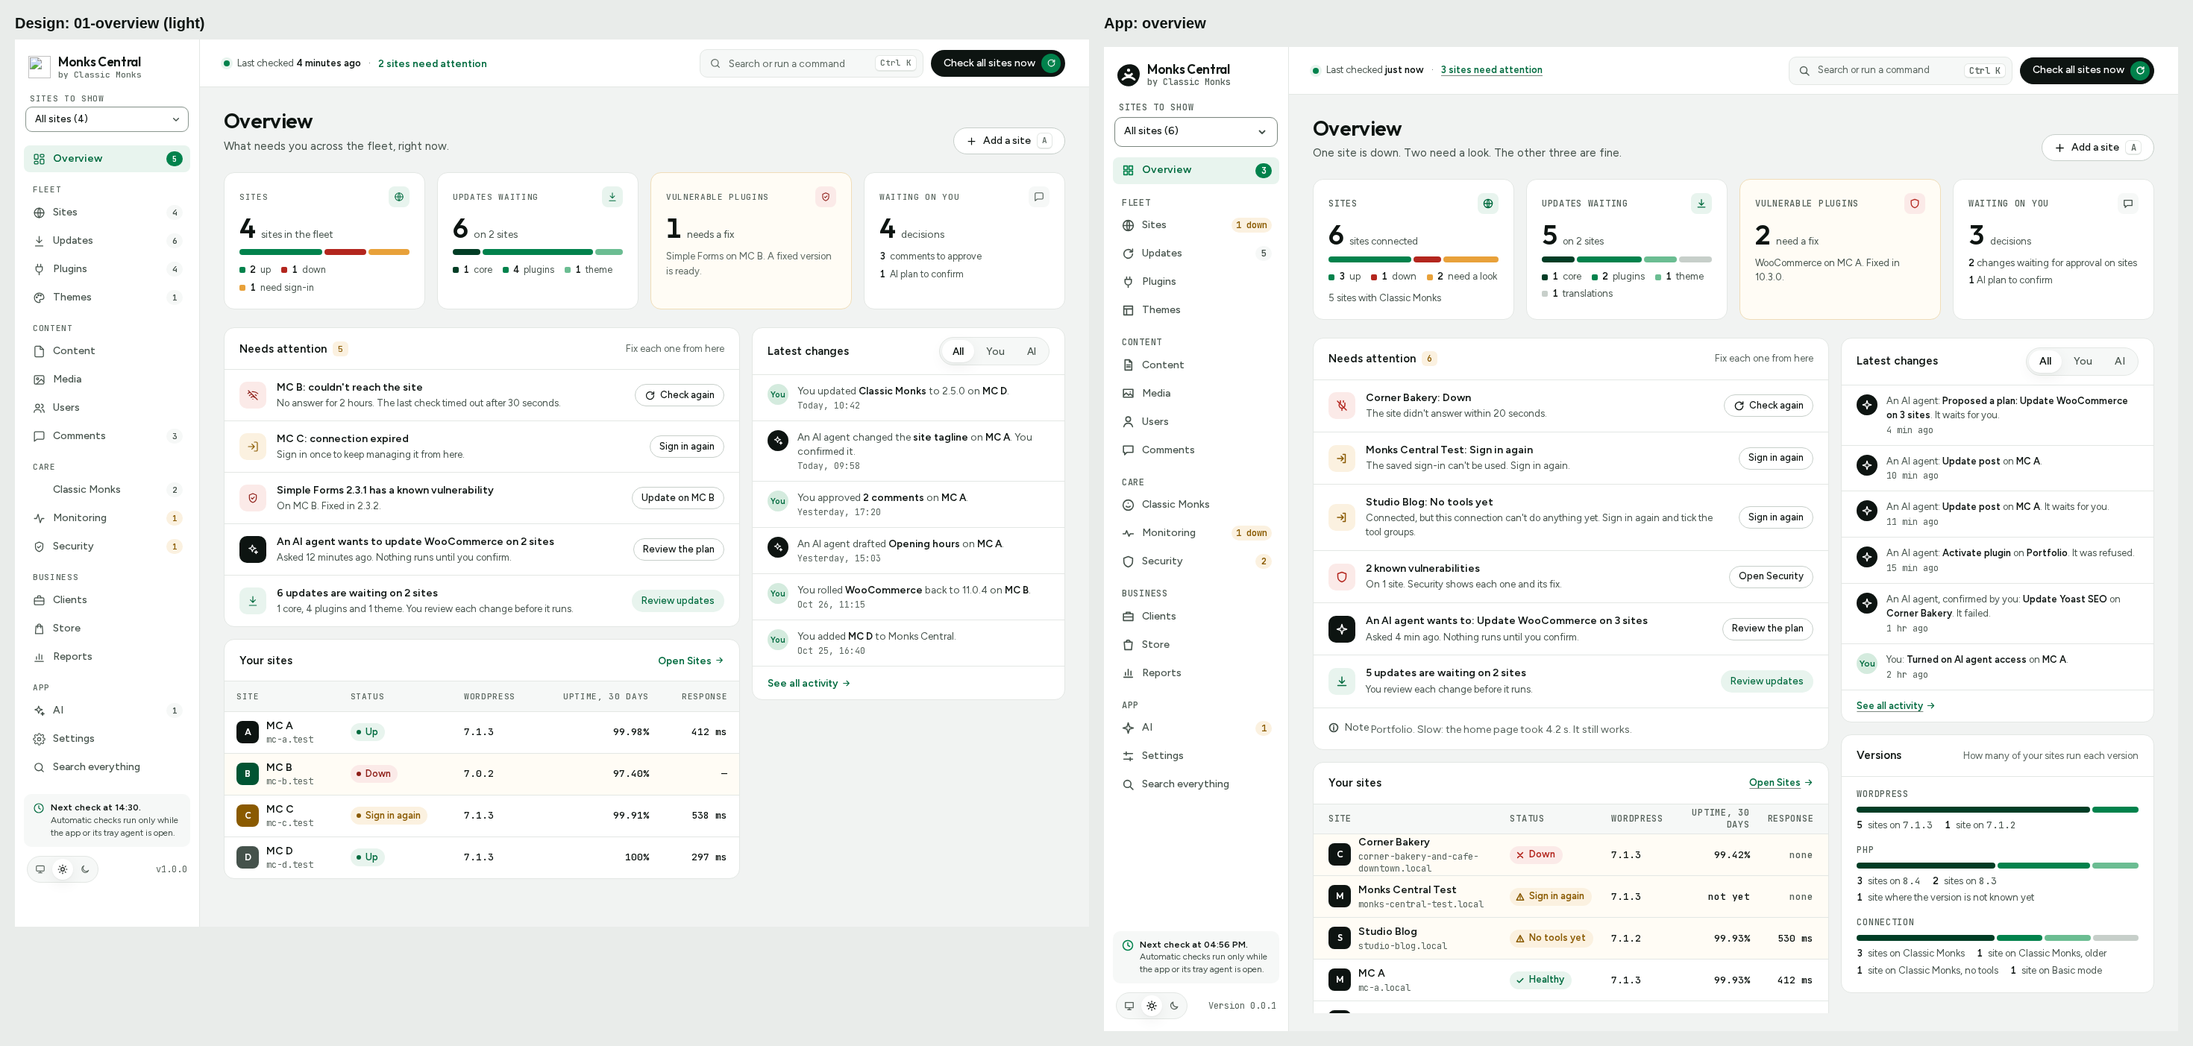
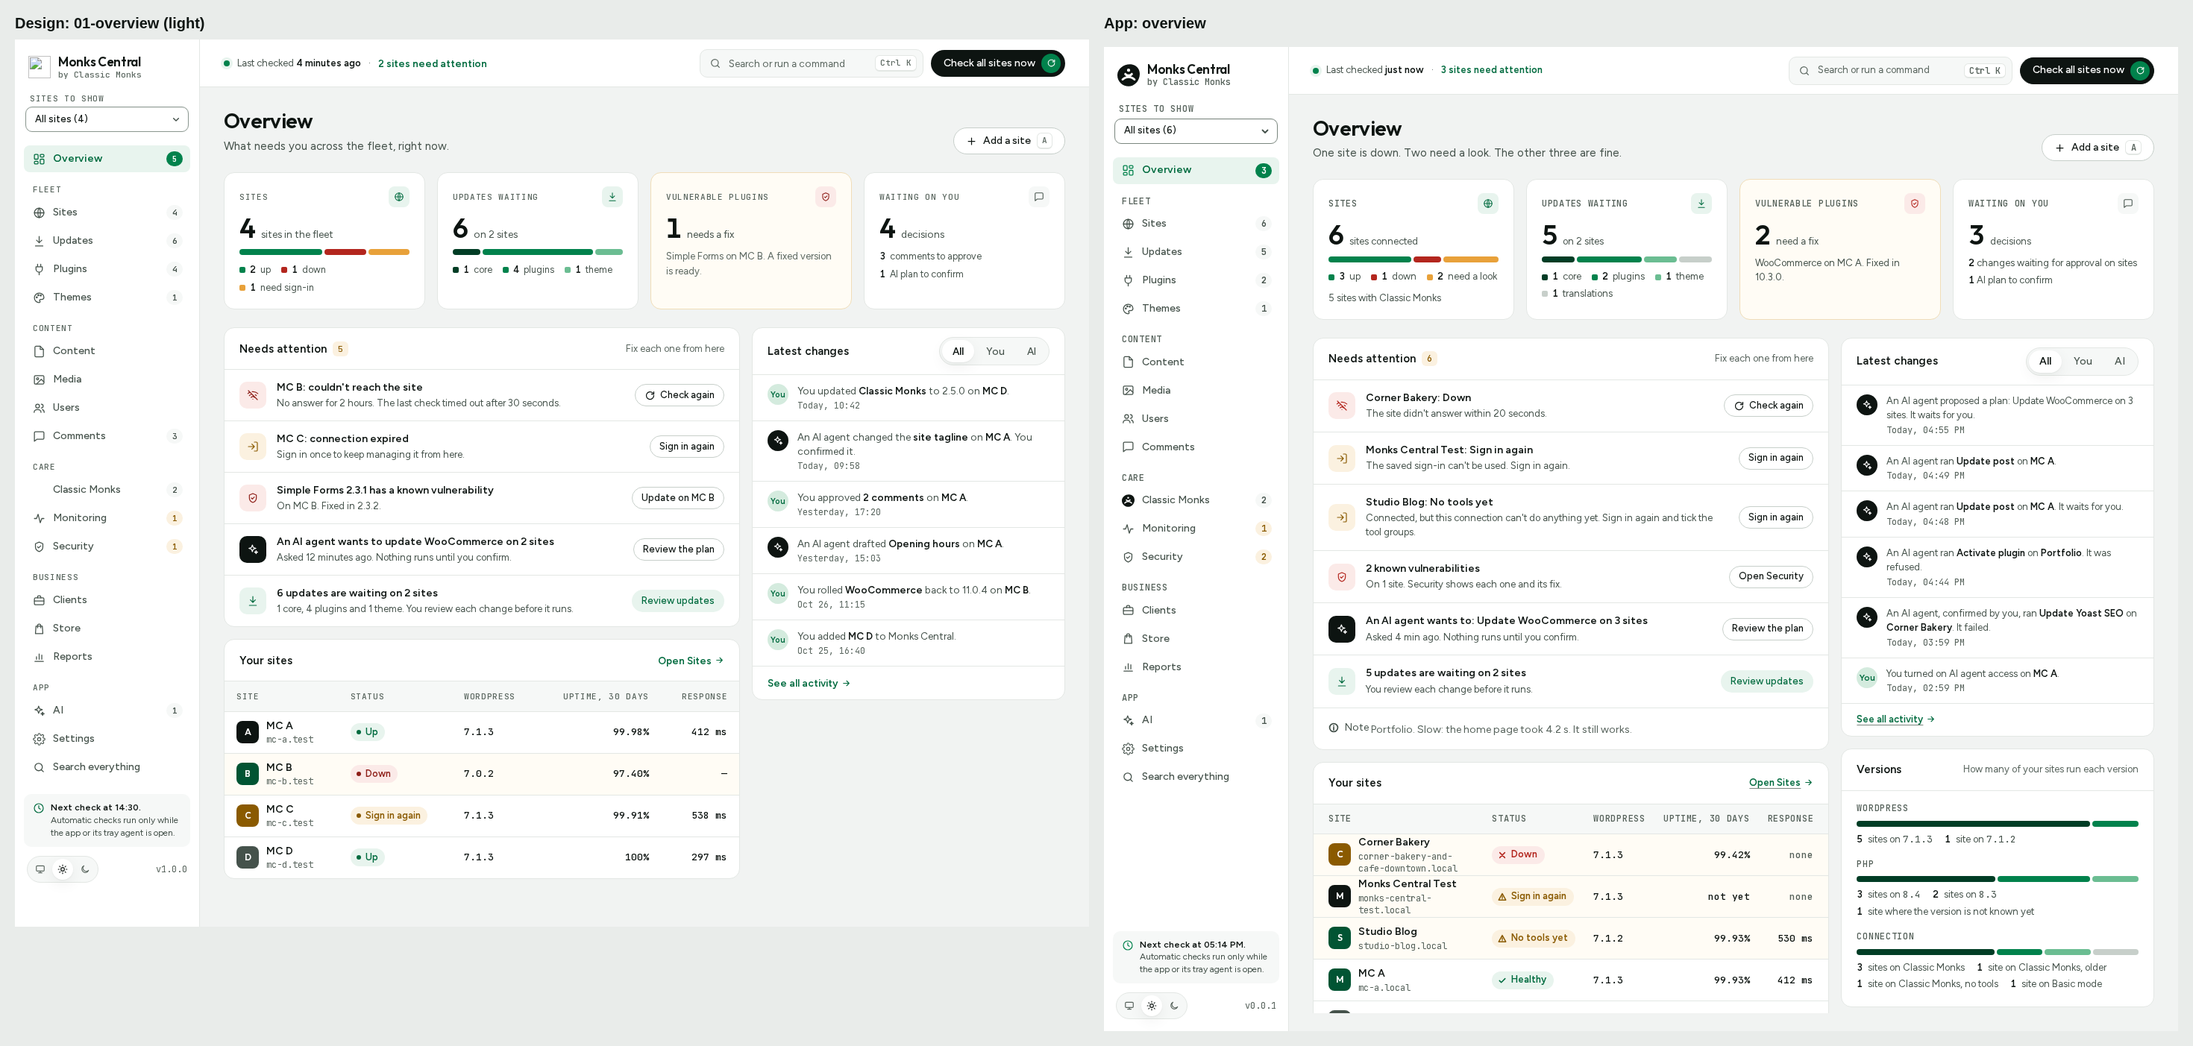
feat(ui): Overview on the design: site tiles, feed sentences and times, first run and error cards

diff --git a/ui/src/screens/Overview.tsx b/ui/src/screens/Overview.tsx
@@ -4,7 +4,8 @@
 import { ago, api, NO_TOOLS, noTools, siteStatus, slow, type Entry, type Job, type Monitor, type SecurityReport, type Site } from "../api";
 import { useEffect, useState, type ReactNode } from "react";
 import { listen } from "@tauri-apps/api/event";
-import { Button, Glyph, Icon, Kbd, Status, type GlyphName } from "../components/ui";
+import { Button, Glyph, Icon, Kbd, Logo, Status, type GlyphName } from "../components/ui";
+import { SiteTile } from "../components/SiteTile";
 import type { PlanRow } from "../components/JobSheet";
 import { toolLabel } from "./ClassicMonks";
 
@@ -88,32 +89,50 @@ const TIPS = "mc-tips-hidden";
 function Welcome({ onAdd, onGo }: Pick<Props, "onAdd" | "onGo">) {
   return (
     <section className="welcome" aria-label="Getting started">
-      <ol className="steps-cards">
-        <li>
-          <span className="n" aria-hidden="true">1</span>
-          <h3>Add your first site</h3>
-          <p>With Classic Monks on the site you get full control. Any WordPress 7.1 site also works in Basic mode, with fewer tools.</p>
-          <Button kind="primary" keys="A" onClick={onAdd}>
+      <div className="card">
+        <div className="empty">
+          <span className="brand-disc" aria-hidden="true">
+            <Logo />
+          </span>
+          <h2>Every WordPress site you look after, in one place</h2>
+          <p>Monks Central checks your sites, keeps them updated and tells you what needs you. Add your first site to start.</p>
+          <Button kind="primary" className="disc" aria-keyshortcuts="A" onClick={onAdd}>
             Add a site
+            <span className="btn-disc">
+              <Glyph name="plus" />
+            </span>
           </Button>
-        </li>
-        <li>
-          <span className="n" aria-hidden="true">2</span>
-          <h3>See how every site is doing</h3>
-          <p>Monks Central checks health, versions and updates every 15 minutes while it runs, also from the tray with the window closed.</p>
-        </li>
-        <li>
-          <span className="n" aria-hidden="true">3</span>
-          <h3>Work on all of them at once</h3>
-          <p>
-            Update, install and publish across sites with one plan you review first. Press <Kbd>Ctrl K</Kbd> to find any page, site or action.
+          <p className="dim or">
+            or press <Kbd>A</Kbd>
           </p>
-          {onGo && (
-            <Button onClick={() => onGo("palette")}>Open the command palette</Button>
-          )}
-        </li>
-      </ol>
-      <p className="dim">Your sign-ins stay on this computer, encrypted. Nothing goes to a Monks Central server.</p>
+          <ol className="steps-line" aria-label="Three steps">
+            <li aria-current="step">
+              <i>1</i>Add a site
+            </li>
+            <li>
+              <i>2</i>Sign in once
+            </li>
+            <li>
+              <i>3</i>See what needs you
+            </li>
+          </ol>
+        </div>
+      </div>
+      <p className="dim">
+        Your sign-ins stay on this computer, encrypted. Nothing goes to a Monks Central server. Press <Kbd>Ctrl K</Kbd> to find any page, site
+        or action
+        {onGo ? (
+          <>
+            {", or "}
+            <button type="button" className="link" onClick={() => onGo("palette")}>
+              open the command palette
+            </button>
+            .
+          </>
+        ) : (
+          "."
+        )}
+      </p>
     </section>
   );
 }
@@ -223,6 +242,29 @@ const WHO: Record<Entry["actor"], string> = { human: "You", agent: "An AI agent"
 const OUTCOME: Record<Entry["outcome"], string> = { done: "", failed: "It failed.", refused: "It was refused.", waiting: "It waits for you." };
 const FEED = 6;
 
+/** The design's feed sentence: "You turned on AI agent access", "An AI agent ran <b>Update post</b>". */
+function said(r: Entry) {
+  const [verb] = r.what.split(" ");
+  // The log keeps past-tense phrases ("Turned on ...", "Proposed a plan: ...") and tool or job names ("update-post", "Update Yoast SEO").
+  if (r.what.includes(" ") && /ed$/.test(verb)) return `${WHO[r.actor]}${r.actor === "agent_confirmed" ? "," : ""} ${r.what.charAt(0).toLowerCase()}${r.what.slice(1)}`;
+  return (
+    <>
+      {WHO[r.actor]}
+      {r.actor === "agent_confirmed" ? "," : ""} ran <b>{r.what.includes(" ") ? r.what : toolLabel(r.what)}</b>
+    </>
+  );
+}
+
+/** "Today, 10:42", "Yesterday, 17:20", "Oct 26, 11:15" in the computer's own clock format. */
+export function when(unix: number, now = new Date()) {
+  const d = new Date(unix * 1000);
+  const time = d.toLocaleTimeString([], { hour: "2-digit", minute: "2-digit" });
+  const days = Math.round((new Date(now).setHours(0, 0, 0, 0) - new Date(d).setHours(0, 0, 0, 0)) / 86400000);
+  if (days === 0) return `Today, ${time}`;
+  if (days === 1) return `Yesterday, ${time}`;
+  return `${d.toLocaleDateString([], { month: "short", day: "numeric" })}, ${time}`;
+}
+
 /** Latest changes from the activity log, with All, You and AI. */
 function Feed({ onGo }: { onGo?: Props["onGo"] }) {
   const [rows, setRows] = useState<Entry[] | null>(null);
@@ -261,7 +303,7 @@ function Feed({ onGo }: { onGo?: Props["onGo"] }) {
                 {r.actor === "human" ? "You" : <Glyph name="sparkle" />}
               </span>
               <p>
-                {WHO[r.actor]}: <b>{r.what.includes(" ") ? r.what : toolLabel(r.what)}</b>
+                {said(r)}
                 {r.site_name && (
                   <>
                     {" "}
@@ -269,7 +311,7 @@ function Feed({ onGo }: { onGo?: Props["onGo"] }) {
                   </>
                 )}
                 . {OUTCOME[r.outcome]}
-                <time dateTime={new Date(r.at * 1000).toISOString()}>{ago(r.at)}</time>
+                <time dateTime={new Date(r.at * 1000).toISOString()}>{when(r.at)}</time>
               </p>
             </li>
           ))}
@@ -484,9 +526,7 @@ export function Overview({ sites, waiting = [], plans = [], reports = [], monito
                       <tr key={s.id} className={st.tone === "danger" || st.tone === "warning" ? "warn" : ""}>
                         <td>
                           <span className="site">
-                            <span className="fav" aria-hidden="true">
-                              {s.name.trim().charAt(0).toUpperCase()}
-                            </span>
+                            <SiteTile site={s} />
                             <span>
                               <b>{s.name}</b>
                               <small>{s.url.replace(/^https?:\/\//, "")}</small>

diff --git a/ui/src/styles/controls.css b/ui/src/styles/controls.css
@@ -212,7 +212,7 @@ body:has(.sheet) .toasts { right: auto; left: var(--sp-4); }
 /* Centred, the way the design draws first runs and errors */
 .empty { padding: var(--sp-7) var(--sp-5); margin: 0 auto; display: grid; justify-items: center; align-content: start; gap: var(--sp-3); text-align: center; }
 /* Loading and start-up errors stand in for the screen, so they take its card. */
-.body > .empty, .body > .skel { max-width: none; width: 100%; background: var(--bg); border: 1px solid var(--line); border-radius: var(--radius-lg); }
+.body > .empty, .body > .skel { align-self: start; max-width: none; width: 100%; background: var(--bg); border: 1px solid var(--line); border-radius: var(--radius-lg); }
 .empty h2 { margin: 0; }
 .empty p { margin: 0; }
 .empty:not(:has(.empty-pic)) > h2:first-child::before {
@@ -223,13 +223,26 @@ body:has(.sheet) .toasts { right: auto; left: var(--sp-4); }
 .empty p { max-width: 60ch; }
 
 /* First run and next steps on Overview */
-.welcome { max-width: 1100px; }
-.steps-cards { list-style: none; margin: 0 0 var(--sp-5); padding: 0; display: grid; grid-template-columns: repeat(auto-fit, minmax(240px, 1fr)); gap: var(--sp-4); }
-.steps-cards li { display: grid; align-content: start; justify-items: start; gap: var(--sp-2); padding: var(--sp-5); border: 1px solid var(--line); border-radius: var(--radius-lg); background: var(--bg); }
-.steps-cards li:first-child { border-color: var(--green); box-shadow: inset 0 0 0 1px var(--green); }
-.steps-cards .n { width: 28px; height: 28px; border-radius: 50%; display: grid; place-items: center; font: 600 var(--fs-sm) var(--mono); background: var(--btn-ink); color: var(--btn-on-ink); }
-.steps-cards h3 { margin: var(--sp-1) 0 0; font: 600 var(--fs-lg)/1.3 var(--display); letter-spacing: -0.02em; }
-.steps-cards p { margin: 0 0 var(--sp-2); color: var(--text-2); }
+/* Errors in place of a page (board D01): a danger disc, plain words, Try again, the detail in mono */
+.danger-disc { display: grid; place-items: center; width: 48px; height: 48px; border-radius: 50%; background: var(--danger-bg); color: var(--danger); }
+.danger-disc .glyph { width: 22px; height: 22px; }
+.empty b { color: var(--text); font-weight: 600; }
+.empty .detail { font-size: var(--fs-xs); overflow-wrap: anywhere; }
+/* First run (board D01): one card with the brand disc, the first action and three steps in a line */
+.welcome { display: grid; gap: var(--sp-3); max-width: 760px; }
+.welcome .empty { padding: var(--sp-7) var(--sp-5) 40px; }
+.welcome h2 { max-width: 22ch; font: 600 var(--fs-lg)/1.3 var(--display); letter-spacing: -0.02em; }
+.welcome .empty > p:not(.or) { max-width: 46ch; color: var(--text-2); }
+.welcome .or { font-size: var(--fs-sm); margin-top: calc(-1 * var(--sp-1)); }
+.brand-disc { display: grid; place-items: center; width: 56px; height: 56px; border-radius: 50%; background: var(--tint); }
+.brand-disc .mark { width: 30px; height: 30px; }
+.steps-line { display: flex; flex-wrap: wrap; justify-content: center; align-items: center; gap: 6px; list-style: none; margin: var(--sp-3) 0 0; padding: 0; font-size: var(--fs-sm); color: var(--text-3); }
+.steps-line li { display: inline-flex; align-items: center; gap: 6px; }
+.steps-line li + li::before { content: ""; width: 18px; height: 1px; background: var(--line-2); margin-right: 2px; }
+.steps-line i { display: inline-grid; place-items: center; width: 22px; height: 22px; border-radius: 50%; border: 1px solid var(--line-2); font: 600 var(--fs-xs)/1 var(--mono); font-style: normal; }
+.steps-line [aria-current] { color: var(--text); font-weight: 600; }
+.steps-line [aria-current] i { background: var(--btn-ink); border-color: var(--btn-ink); color: var(--btn-on-ink); }
+[data-theme="dark"] .steps-line [aria-current] i { background: var(--green); border-color: var(--green); color: var(--on-green); }
 .welcome > .dim { margin: 0; font-size: var(--fs-sm); }
 .next-steps { margin: 0; padding: var(--sp-4) 20px; border: 1px solid var(--line); border-radius: var(--radius-lg); background: var(--bg); display: grid; gap: var(--sp-2); justify-items: start; }
 .next-steps h2 { margin: 0; font-size: var(--fs-md); font-weight: 600; }

diff --git a/ui/src/App.tsx b/ui/src/App.tsx
@@ -1,7 +1,7 @@
 // SPDX-License-Identifier: GPL-3.0-or-later
 // The shell: sidebar, top bar, page head, Ctrl K palette, theme (docs/design/redesign).
 import { Empty, Skeleton, Toaster, Tooltips, dismissAll, toast } from "./components/feedback";
-import { useEffect, useMemo, useState } from "react";
+import { useEffect, useMemo, useRef, useState } from "react";
 import { ago, api, hasTool, useInventory, useMonitors, usePlans, useSecurity, useSites, type Change, type CoreStatus, type Site } from "./api";
 import { useDensity, useTheme, type ThemeChoice } from "./theme";
 import { Button, Glyph, HeadSlot, Kbd, Logo, type GlyphName } from "./components/ui";
@@ -97,6 +97,8 @@ const THEMES: [ThemeChoice, GlyphName, string][] = [
 
 export default function App() {
   const [section, setSection] = useState<Section>("Overview");
+  const sectionRef = useRef(section);
+  sectionRef.current = section;
   // Messages belong to the screen they came from; on another screen they would only cover it.
   useEffect(() => dismissAll(), [section]);
   const [status, setStatus] = useState<CoreStatus | null>(null);
@@ -136,6 +138,18 @@ export default function App() {
       if ((e.metaKey || e.ctrlKey) && e.key.toLowerCase() === "k") {
         e.preventDefault();
         setPalette((p) => !p);
+      }
+      const t = e.target as HTMLElement;
+      // A adds a site from the Overview too (Sites has its own keys).
+      if (
+        e.key === "a" &&
+        sectionRef.current === "Overview" &&
+        !e.ctrlKey && !e.metaKey && !e.altKey && !e.defaultPrevented &&
+        !["INPUT", "TEXTAREA", "SELECT"].includes(t.tagName) &&
+        !document.querySelector('[aria-modal="true"]')
+      ) {
+        e.preventDefault();
+        setAdding({});
       }
     };
     document.addEventListener("keydown", onKey);
@@ -259,18 +273,35 @@ export default function App() {
   if (coreError) {
     body = (
       <div className="empty" role="alert">
+        <span className="danger-disc" aria-hidden="true">
+          <Glyph name="alert" />
+        </span>
         <h2>Monks Central couldn't start.</h2>
-        <p>{coreError}</p>
-        <p>Close Monks Central and open it again. If it keeps happening, restart the computer.</p>
-        <Button onClick={() => location.reload()}>Try again</Button>
+        <p>
+          <b>Nothing was changed.</b> Close Monks Central and open it again. If it keeps happening, restart the computer.
+        </p>
+        <Button onClick={() => location.reload()}>
+          <Glyph name="refresh" />
+          Try again
+        </Button>
+        <p className="mono dim detail">{coreError}</p>
       </div>
     );
   } else if (error) {
     body = (
       <div className="empty" role="alert">
+        <span className="danger-disc" aria-hidden="true">
+          <Glyph name="alert" />
+        </span>
         <h2>Your sites didn't load.</h2>
-        <p>{error}</p>
-        <Button onClick={reload}>Try again</Button>
+        <p>
+          <b>Nothing was changed.</b> Try again; if it keeps happening, close Monks Central and open it again.
+        </p>
+        <Button onClick={reload}>
+          <Glyph name="refresh" />
+          Try again
+        </Button>
+        <p className="mono dim detail">{error}</p>
       </div>
     );
   } else if (!sites) {

diff --git a/ui/src/screens/Overview.test.tsx b/ui/src/screens/Overview.test.tsx
@@ -62,7 +62,7 @@ test("a new user gets three steps, then next steps that can be hidden for good",
   const { rerender } = render(<Overview sites={[]} onOpen={vi.fn()} onCheck={vi.fn()} onSignInAgain={vi.fn()} onAdd={onAdd} onGo={onGo} />);
   const start = screen.getByRole("region", { name: "Getting started" });
   fireEvent.click(within(start).getByRole("button", { name: /^Add a site/ }));
-  fireEvent.click(within(start).getByRole("button", { name: "Open the command palette" }));
+  fireEvent.click(within(start).getByRole("button", { name: "open the command palette" }));
   expect(onAdd).toHaveBeenCalled();
   expect(onGo).toHaveBeenCalledWith("palette");
 
@@ -98,5 +98,5 @@ test("updates, plans and vulnerabilities each get one fix, and the latest change
   expect(await within(feed).findByText("Update post")).toBeInTheDocument();
   fireEvent.click(within(feed).getByRole("button", { name: "You" }));
   expect(within(feed).queryByText("Update post")).toBeNull();
-  expect(within(feed).getByText("Turned on AI agent access")).toBeInTheDocument();
+  expect(within(feed).getByText(/^You turned on AI agent access/)).toBeInTheDocument();
 });

diff --git a/ui/src/styles/base.css b/ui/src/styles/base.css
@@ -283,7 +283,7 @@ table.t { width: 100%; border-collapse: separate; border-spacing: 0; }
 [data-theme="dark"] .av.ai { background: var(--tint-2); color: var(--text); }
 .av .glyph { width: 14px; height: 14px; }
 /* The card table wraps to fit instead of scrolling sideways (a scroll box would need its own Tab stop). */
-.card .t td:first-child, .card .t th { white-space: normal; }
+.card .t td:first-child, .card .t th:first-child { white-space: normal; }
 .card .site small { overflow-wrap: anywhere; }
 .card .t th { position: static; }
 .card .t td { height: 56px; }

diff --git a/docs/design/redesign/audit/01-overview.md b/docs/design/redesign/audit/01-overview.md
@@ -1,0 +1,13 @@
+| Page | Section | Design | App (before) | Fix | Status |
+|---|---|---|---|---|---|
+| 01 Overview | Page head | "What needs you across the fleet, right now." and Add a site A | The fleet sentence ("One site is down. ...") and Add a site A | Kept the sentence | kept: it says what the stat cards show in words (docs/ux README, "Every number says what it counts"); same place, size and colour |
+| 01 Overview | Add a site key | "A" | The key was shown but did nothing on the Overview | A adds a site on the Overview too | done |
+| 01 Overview | Stat cards | Sites, Updates waiting, Vulnerable plugins (alert paper), Waiting on you; bars and keys | Same four cards, bars and keys | Already matched; numbers and words from the app's data | done |
+| 01 Overview | Waiting on you | "3 comments to approve", "1 AI plan to confirm" | "N changes waiting for approval on sites", "1 AI plan to confirm" | Kept approvals on sites | kept: no fleet-wide count of comments waiting in the core; the approvals count is the closest real data |
+| 01 Overview | Needs attention | Icon tiles, bold title, muted line, one pill action; amber count badge | Same, plus the slow-site note row | Matched; the slow note stays | kept: slow sites are a note (docs/ux README "A slow site is a note") |
+| 01 Overview | Your sites | 30px site tiles in four inks, status pill, WordPress, uptime, response | One ink tile for every site; "Uptime, 30 days" head wrapped | `SiteTile` (favicon or four-ink monogram); heads after the first stay on one line | done |
+| 01 Overview | Your sites: missing response | "—" | "none" | Kept "none" | kept: missing values are words (docs/ux README, Clarity) |
+| 01 Overview | Latest changes | Sentences "You updated **X** to 2.5.0 on **MC D**.", times "Today, 10:42", "Yesterday, 17:20", "Oct 26, 11:15" | "An AI agent: **Update post** on MC A.", times "4 min ago" | Sentences built from the log ("You turned on AI agent access on **MC A**.", "An AI agent ran **Update post** on **MC A**."), times as Today / Yesterday / date in the computer's clock format | done |
+| 01 Overview | Latest changes: version words | "to 2.5.0" | The log keeps the job's words | Shows what the log says | kept: the activity log stores the change's title, not the versions |
+| 01 Overview | Versions card | not in the design | WordPress, PHP and connection spread | Kept under Latest changes, in the design's card look | kept: existing feature |
+| 01 Overview | Next steps card | not in the design | Shown for a new fleet of up to 2 sites until hidden | Kept | kept: existing feature (first-run help) |

diff --git a/docs/design/redesign/audit/d01-empty-error.md b/docs/design/redesign/audit/d01-empty-error.md
@@ -1,0 +1,7 @@
+| Page | Section | Design | App (before) | Fix | Status |
+|---|---|---|---|---|---|
+| D01 Overview empty | Layout | One centred card: brand disc, "Every WordPress site you look after, in one place" (Outfit), one line, primary Add a site with a plus disc, "or press A", stepper 1 Add a site, 2 Sign in once, 3 See what needs you | Three step cards with long text, Add a site in the first, Open the command palette in the third | The design's card and stepper; the privacy line and the palette (now a link) stay under the card | done |
+| D01 Overview empty | Brand disc | Logo image in a tint disc (broken image in the bundle) | none | Classic Monks mark in a 56px tint disc | done |
+| D01 Error | Card | Danger disc with the alert icon, "Couldn't load the fleet", "**Nothing was changed.** Check this computer's internet connection, then try again.", Try again (refresh icon), mono detail | Inbox picture, title, error text and advice in body text, Try again | Danger disc, bold "Nothing was changed.", Try again with the icon, the error in mono under it; the card is as tall as its content | done |
+| D01 Error | Wording | Internet connection advice | Restart advice | Kept the app's advice for each case (the core didn't start; the sites list didn't load) | kept: the app's two errors have different causes, so each says its own next step |
+| D01 Toast | Toast | Ink box, green tick, words, close | Ink toast with tick and close | See D09 | done |
